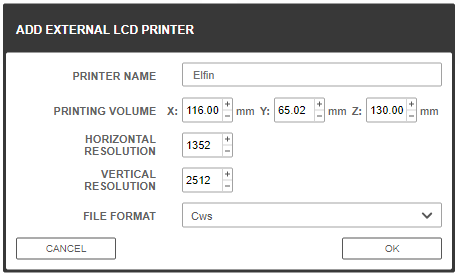
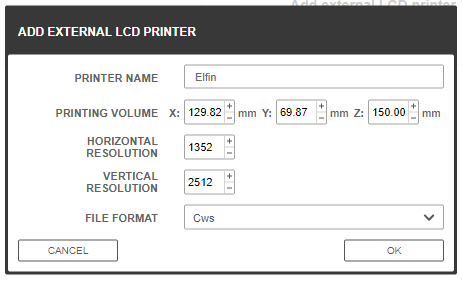
calibration stuff

diff --git a/convert/cv_main.py b/convert/cv_main.py
@@ -71,7 +71,7 @@ def gen_header(conf, extra, timestr):
         "G21 ;Set units to be mm",
         "G91 ;Relative Positioning",
         "M17 ;Enable motors",
-        "<Slice> Blank",
+        "<Slice> Blank", # This is probably missing the ; but it's also probably useless anyway
         "M106 S0",
         ""
     ]
@@ -96,7 +96,11 @@ def gen_slices(conf, extra):
         # We go very slow and cool for at least 30 seconds
         lines.append(f"G1 Z{lift} F20")
         lines.append(f"G1 Z-{down} F20")
-        lines.append(";<Delay> 34000")
+        delay = 10000 + int(((int(lift) / (20. / 60.)) + (int(lift) / (20. / 60.))) * 1000)
+        # OverHeat Safety
+        delay = max(delay, conf['head_layers_expo_ms'])
+        print(f"[DEBUG] bottom time is {delay} ms")
+        lines.append(f";<Delay> {delay}")
 
         lines.append("")
 
@@ -112,6 +116,8 @@ def gen_slices(conf, extra):
         # The printer is dumb can't wait until gcode is done to execute delay we have to anticipate for it
         # extra blank time (at least 500 ms to give me some margin) + time to lift + time to go back for next exposition
         delay = max(extra['wait'], 500) + int(((int(lift)/(extra['lift_feed']/60)) + (int(lift)/(extra['lift_retract']/60)))*1000)
+        # OverHeat Safety
+        delay = max(delay, 10000)
         lines.append(f";<Delay> {delay}")
         lines.append("")
 
@@ -217,7 +223,7 @@ if __name__ == '__main__':
             # Write Slices
             gcode_out.write("\n".join(gen_slices(config_data, extra_data)))
             # Write end
-            gcode_out.write("M106 S0\n")
+            gcode_out.write("\nM106 S0\n")
             # Compute the height to raise to the top with 5mm margin instead of lifting by 80 like a moron
             lift_height = 150 - (config_data['thickness'] * config_data['layers_num'])
             if lift_height < 0:

diff --git a/calibration/count_pixels.py b/calibration/count_pixels.py
@@ -1,0 +1,48 @@
+import matplotlib.image as mpimg
+import matplotlib.pyplot as plt
+import numpy as np
+
+# count white pixels of a cube slice should match if we are calibrated on NovaMaker
+if __name__ == '__main__':
+
+    img = mpimg.imread('nova_ref_20mm000.png')
+    print("Loaded cube reference")
+
+    # X size
+    slice_x = img[:, 671]
+    count = 0
+    for pixel in slice_x:
+        if pixel[0] == 1. and pixel[1] == 1. and pixel[2] == 1.:
+            count += 1
+
+    print("X Size", count)
+
+    # Y size
+    slice_y = img[1256]
+    count = 0
+    for pixel in slice_y:
+        if pixel[0] == 1. and pixel[1] == 1. and pixel[2] == 1.:
+            count += 1
+
+    print("Y Size", count)
+
+    img = mpimg.imread('zs_cal0000.png')
+    print("Loaded cube candidate")
+
+    # X size
+    slice_x = img[:, 671]
+    count = 0
+    for pixel in slice_x:
+        if pixel[0] == 1. and pixel[1] == 1. and pixel[2] == 1.:
+            count += 1
+
+    print("X Size", count)
+
+    # Y size
+    slice_y = img[1256]
+    count = 0
+    for pixel in slice_y:
+        if pixel[0] == 1. and pixel[1] == 1. and pixel[2] == 1.:
+            count += 1
+
+    print("Y Size", count)

diff --git a/README.MD b/README.MD
@@ -7,7 +7,8 @@ You need to configure the Elfin as follows in Z-Suite
 
 ![alt text](./images/zotrax_settings.PNG "elfin z-suite config")
 
-Yes this is not what the listing or even the manual might said I pulled it from the G-code generated by the official slicer "Nova Maker v2.4.20"   
+The horizontal/vertical resolution matches the slices NovaMaker produces and the size [was computed](calibration/cal.md) using a calibration file to match the pixels counts (in X and Y) of NovaMaker for a know size object.
+Even with those two decimal your X axis might be a bit off I advise editing the CustomPrinters.xml file to enter a more precise X dimension of 129.819121mm
 ## Usage
 `python cv_main.py --file my_print.cws`
 

diff --git a/calibration/cal.md b/calibration/cal.md
@@ -1,0 +1,13 @@
+#Calibration info
+Using a 20mm calibration cube file and counting the pixels the px/mm ratio was found to be exactly 19.35.
+From the OEM Slicer NovaMaker v2.4.20 the screen resolution was found to be 2512 pixels by 1352 pixels.
+
+This dictates the settings you must enter into Z-Suite
+
+![alt text](../images/zotrax_settings.PNG "elfin z-suite config")
+
+### Layer 0 generated with NovaMaker
+![alt text](nova_ref_20mm000.png)
+
+### Layer 0 Generated with Z-Suite
+![alt text](zs_cal0000.png)
